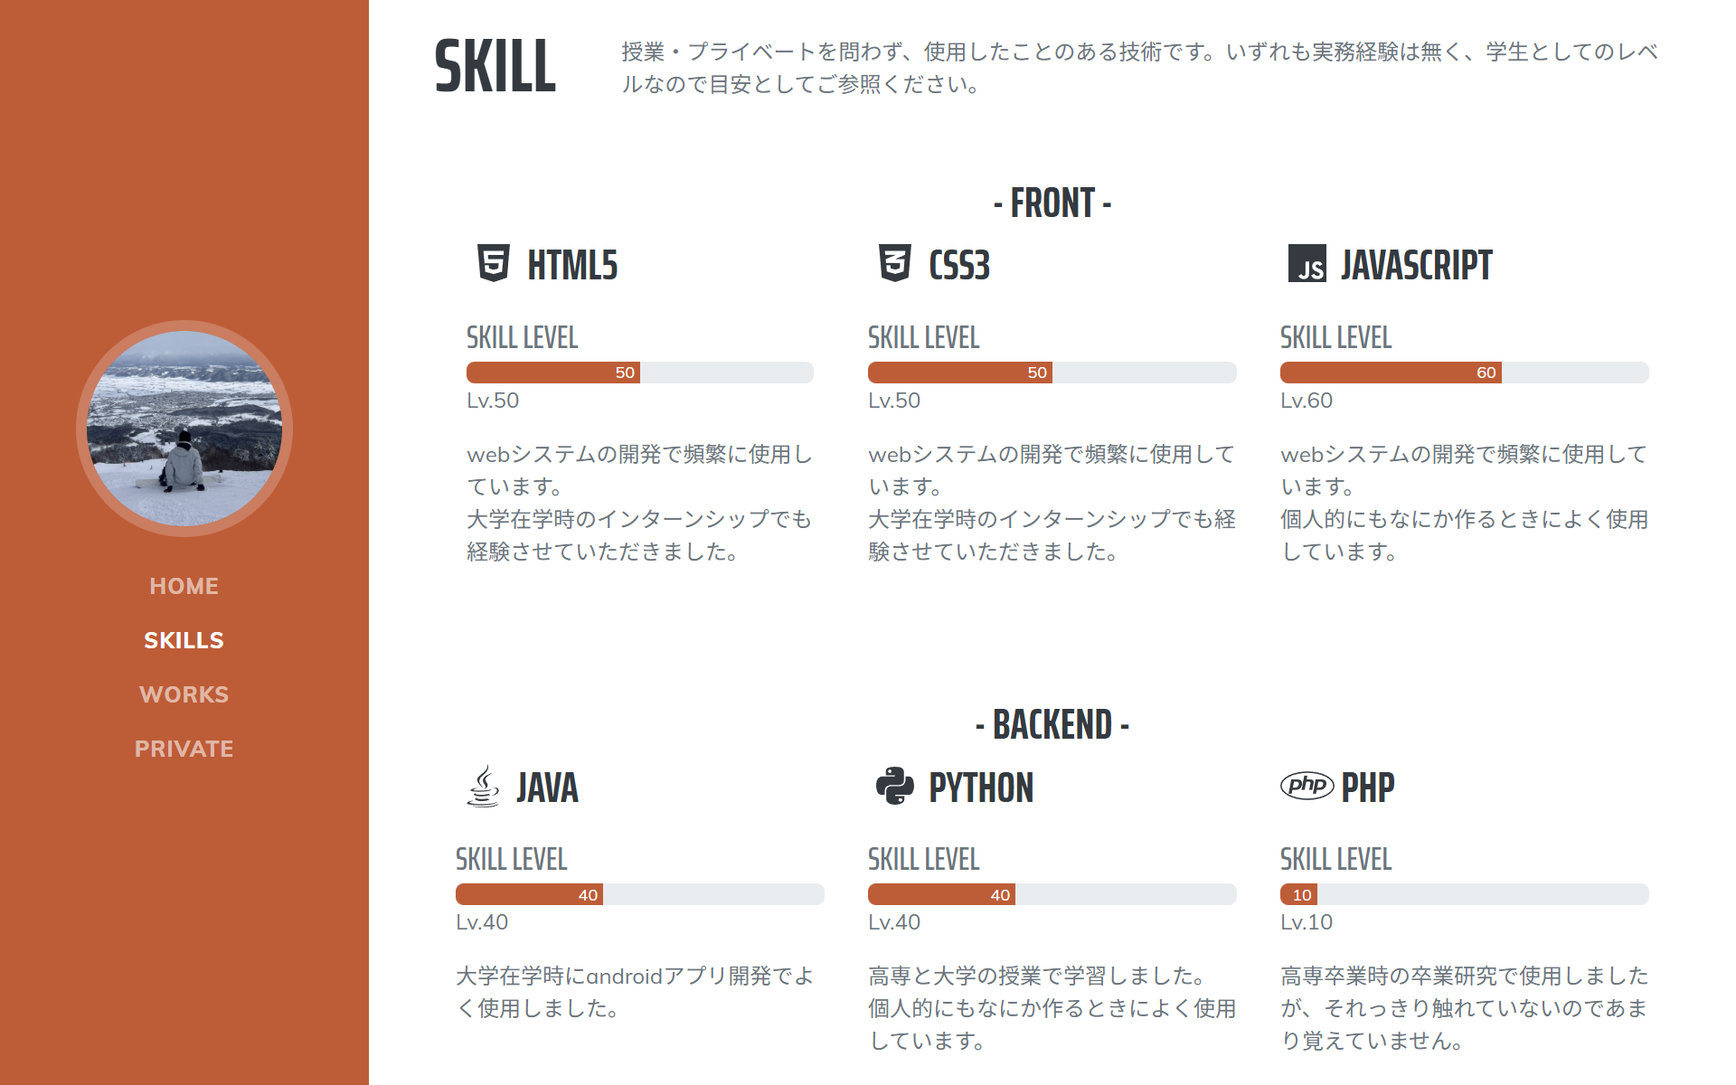
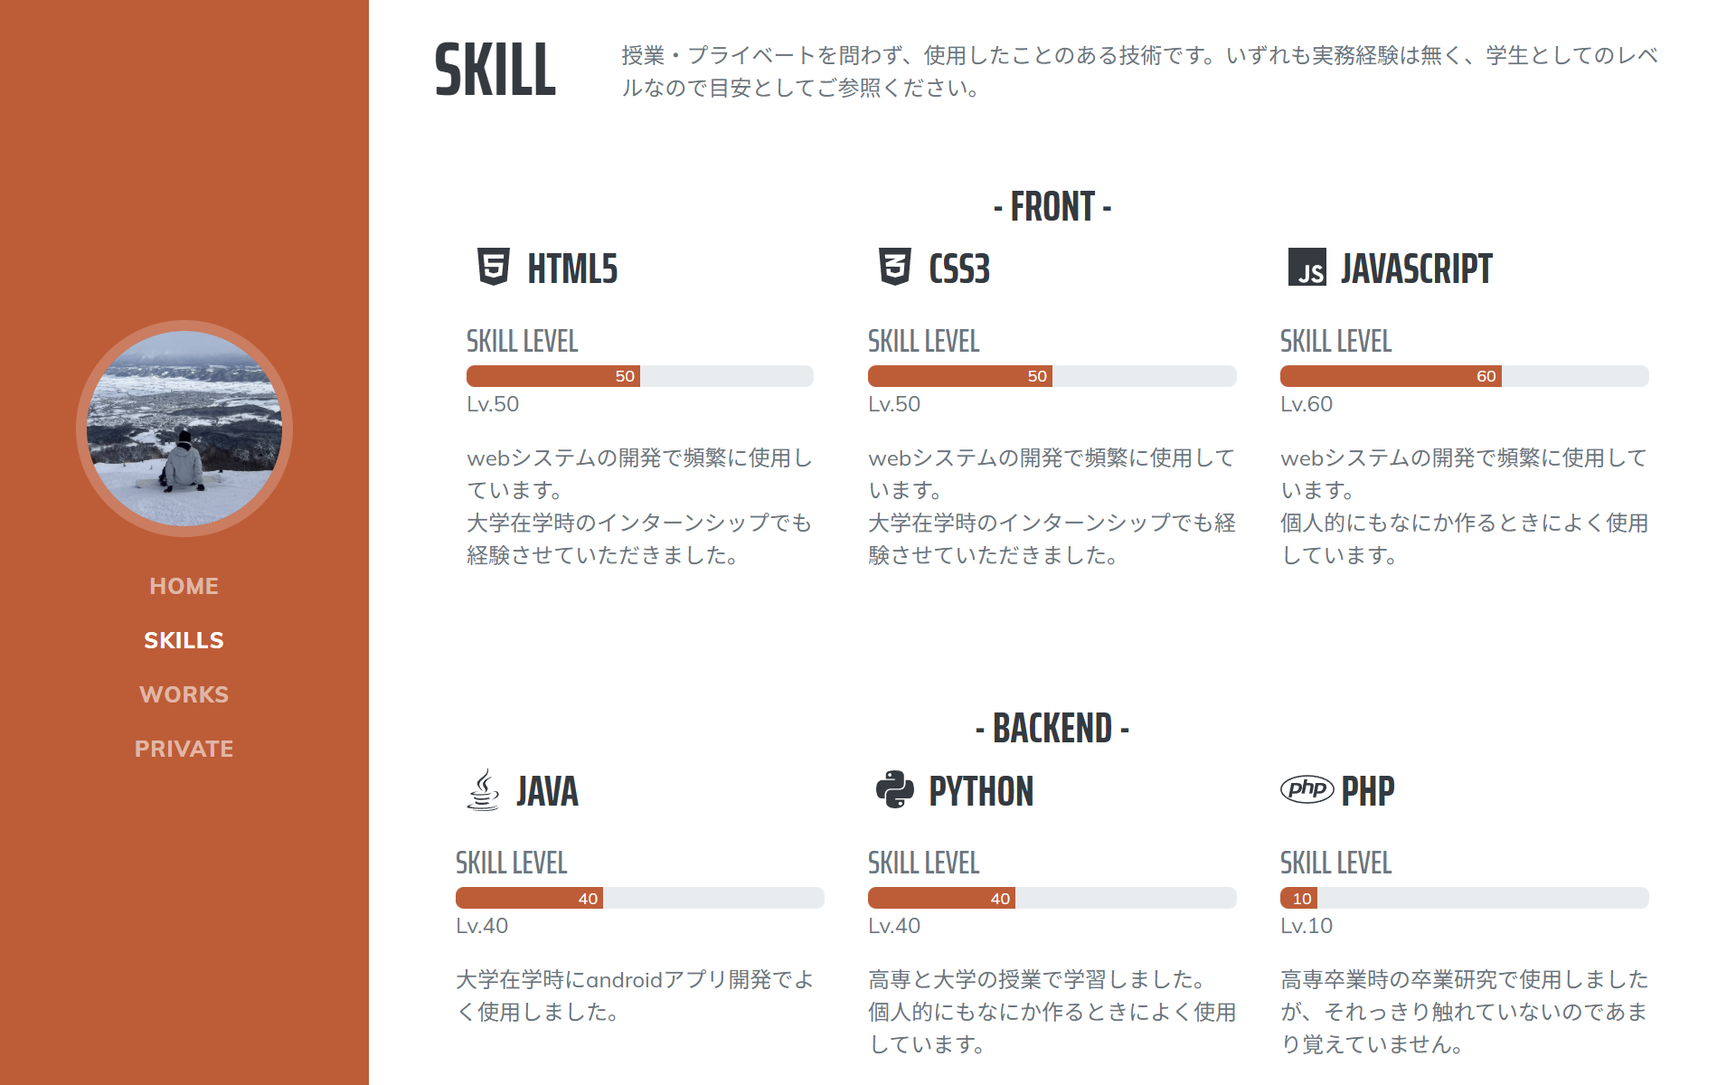
色設定しなおし

diff --git a/index.html b/index.html
@@ -26,7 +26,7 @@
             <div class="modal-dialog modal-dialog-centered modal-dialog-scrollable modal-xl">
             <div class="modal-content">
                 <div class="modal-header">
-                <h5 class="modal-title color-change rain-color" id="explain_modal_title"></h5>
+                <h5 class="modal-title text-primary" id="explain_modal_title"></h5>
                 <button type="button" class="btn-close" data-bs-dismiss="modal" aria-label="Close"></button>
                 </div>
                 <div class="modal-body">
@@ -43,11 +43,11 @@
                           </div>
                         </div>
                         <button class="carousel-control-prev" type="button" data-bs-target="#carouselExampleControlsNoTouching" data-bs-slide="prev">
-                          <span aria-hidden="true"><i class="bi bi-caret-left-fill color-change rain-color"></i></span>
+                          <span aria-hidden="true"><i class="bi bi-caret-left-fill text-primary"></i></span>
                           <span class="visually-hidden">Previous</span>
                         </button>
                         <button class="carousel-control-next" type="button" data-bs-target="#carouselExampleControlsNoTouching" data-bs-slide="next">
-                            <span aria-hidden="true"><i class="bi bi-caret-right-fill color-change rain-color"></i></span>
+                            <span aria-hidden="true"><i class="bi bi-caret-right-fill text-primary"></i></span>
                           <span class="visually-hidden">Next</span>
                         </button>
                       </div>
@@ -57,13 +57,13 @@
                 </div>
                 <div class="modal-footer">
                         <a id="explain_modal_footer" class="px-1" href="#">
-                            <h3 class="mt-2 color-change rain-color"><i class="fa-brands fa-github"></i></h2>
+                            <h3 class="mt-2 text-primary"><i class="fa-brands fa-github"></i></h2>
                         </a>
                         <a id="link_modal_footer" class="px-1" href="#">
-                            <h3 class="mt-2 color-change rain-color"><i class="bi bi-box-arrow-right"></i></h3>
+                            <h3 class="mt-2 text-primary"><i class="bi bi-box-arrow-right"></i></h3>
                         </a>
                         <a id="slide_modal_footer" class="px-1" href="#">
-                            <h3 class="mt-2 color-change rain-color"><i class="bi bi-file-earmark-ppt"></i></h3>
+                            <h3 class="mt-2 text-primary"><i class="bi bi-file-earmark-ppt"></i></h3>
                         </a>
                     <!-- <button type="button" class="btn btn-secondary px-1" data-bs-dismiss="modal">Close</button> -->
                 </div>
@@ -137,7 +137,7 @@
                                     <div class="flex-grow-1 mx-2">
                                         <h3 class="mb-3"><i class="fa-brands fa-html5"></i>  HTML5</h3>
                                         <div class="subheading">Skill Level</div>
-                                        <div class="progress color-change rain-color" role="progressbar" aria-label="Example with label" aria-valuenow="50" aria-valuemin="0" aria-valuemax="100">
+                                        <div class="progress text-primary" role="progressbar" aria-label="Example with label" aria-valuenow="50" aria-valuemin="0" aria-valuemax="100">
                                             <div class="progress-bar scroll-action text-end pe-1" percent="50">50</div>
                                         </div>
                                         <p>Lv.50</p>
@@ -148,7 +148,7 @@
                                     <div class="flex-grow-1">
                                         <h3 class="mb-3"><i class="fa-brands fa-css3-alt"></i>  CSS3</h3>
                                         <div class="subheading">Skill Level</div>
-                                        <div class="progress color-change rain-color" role="progressbar" aria-label="Example with label" aria-valuenow="50" aria-valuemin="0" aria-valuemax="100">
+                                        <div class="progress text-primary" role="progressbar" aria-label="Example with label" aria-valuenow="50" aria-valuemin="0" aria-valuemax="100">
                                             <div class="progress-bar scroll-action text-end pe-1" percent="50">50</div>
                                         </div>
                                         <p>Lv.50</p>
@@ -159,7 +159,7 @@
                                     <div class="flex-grow-1">
                                         <h3 class="mb-3"><i class="fa-brands fa-js"></i>  Javascript</h3>
                                         <div class="subheading">Skill Level</div>
-                                        <div class="progress color-change rain-color" role="progressbar" aria-label="Example with label" aria-valuenow="60" aria-valuemin="0" aria-valuemax="100">
+                                        <div class="progress text-primary" role="progressbar" aria-label="Example with label" aria-valuenow="60" aria-valuemin="0" aria-valuemax="100">
                                             <div class="progress-bar scroll-action text-end pe-1" percent="60">60</div>
                                         </div>
                                         <p>Lv.60</p>
@@ -180,7 +180,7 @@
                                     <div class="flex-grow-1">
                                         <h3 class="mb-3"><i class="fa-brands fa-java"></i>  java</h3>
                                         <div class="subheading">Skill Level</div>
-                                        <div class="progress color-change rain-color" role="progressbar" aria-label="Example with label" aria-valuenow="40" aria-valuemin="0" aria-valuemax="100">
+                                        <div class="progress text-primary" role="progressbar" aria-label="Example with label" aria-valuenow="40" aria-valuemin="0" aria-valuemax="100">
                                             <div class="progress-bar scroll-action text-end pe-1" percent="40">40</div>
                                         </div>
                                         <p>Lv.40</p>
@@ -191,7 +191,7 @@
                                     <div class="flex-grow-1">
                                         <h3 class="mb-3"><i class="fa-brands fa-python"></i> python</h3>
                                         <div class="subheading">Skill Level</div>
-                                        <div class="progress color-change rain-color" role="progressbar" aria-label="Example with label" aria-valuenow="40" aria-valuemin="0" aria-valuemax="100">
+                                        <div class="progress text-primary" role="progressbar" aria-label="Example with label" aria-valuenow="40" aria-valuemin="0" aria-valuemax="100">
                                             <div class="progress-bar scroll-action text-end pe-1" percent="40">40</div>
                                         </div>
                                         <p>Lv.40</p>
@@ -202,7 +202,7 @@
                                     <div class="flex-grow-1">
                                         <h3 class="mb-3"><i class="fa-brands fa-php"></i> PHP</h3>
                                         <div class="subheading">Skill Level</div>
-                                        <div class="progress color-change rain-color" role="progressbar" aria-label="Example with label" aria-valuenow="10" aria-valuemin="0" aria-valuemax="100">
+                                        <div class="progress text-primary" role="progressbar" aria-label="Example with label" aria-valuenow="10" aria-valuemin="0" aria-valuemax="100">
                                             <div class="progress-bar scroll-action text-end pe-1" percent="10">10</div>
                                         </div>
                                         <p>Lv.10</p>
@@ -222,7 +222,7 @@
                                     <div class="flex-grow-1">
                                         <h3 class="mb-3 d-flex align-items-center gap-2"><img style="height: 1em;" src="assets/img/jquery_icon.png" alt="..." /> jQuery</h3>
                                         <div class="subheading">Skill Level</div>
-                                        <div class="progress color-change rain-color" role="progressbar" aria-label="Example with label" aria-valuenow="40" aria-valuemin="0" aria-valuemax="100">
+                                        <div class="progress text-primary" role="progressbar" aria-label="Example with label" aria-valuenow="40" aria-valuemin="0" aria-valuemax="100">
                                             <div class="progress-bar scroll-action text-end pe-1" percent="40">40</div>
                                         </div>
                                         <p>Lv.40</p>
@@ -233,7 +233,7 @@
                                     <div class="flex-grow-1">
                                         <h3 class="mb-3"><i class="fa-brands fa-bootstrap"></i>  bootstrap</h3>
                                         <div class="subheading">Skill Level</div>
-                                        <div class="progress color-change rain-color" role="progressbar" aria-label="Example with label" aria-valuenow="30" aria-valuemin="0" aria-valuemax="100">
+                                        <div class="progress text-primary" role="progressbar" aria-label="Example with label" aria-valuenow="30" aria-valuemin="0" aria-valuemax="100">
                                             <div class="progress-bar scroll-action text-end pe-1" percent="30">30</div>
                                         </div>
                                         <p>Lv.30</p>
@@ -254,7 +254,7 @@
                                     <div class="flex-grow-1">
                                         <h3 class="mb-3"><i class="fa-brands fa-windows"></i>  windows</h3>
                                         <div class="subheading">Skill Level</div>
-                                        <div class="progress color-change rain-color" role="progressbar" aria-label="Example with label" aria-valuenow="60" aria-valuemin="0" aria-valuemax="100">
+                                        <div class="progress text-primary" role="progressbar" aria-label="Example with label" aria-valuenow="60" aria-valuemin="0" aria-valuemax="100">
                                             <div class="progress-bar scroll-action text-end pe-1" percent="60">60</div>
                                         </div>
                                         <p>Lv.60</p>
@@ -265,7 +265,7 @@
                                     <div class="flex-grow-1">
                                         <h3 class="mb-3"><i class="fa-brands fa-linux"></i>  Linux</h3>
                                         <div class="subheading">Skill Level</div>
-                                        <div class="progress color-change rain-color" role="progressbar" aria-label="Example with label" aria-valuenow="15" aria-valuemin="0" aria-valuemax="100">
+                                        <div class="progress text-primary" role="progressbar" aria-label="Example with label" aria-valuenow="15" aria-valuemin="0" aria-valuemax="100">
                                             <div class="progress-bar scroll-action text-end pe-1" percent="15">15</div>
                                         </div>
                                         <p>Lv.15</p>
@@ -286,7 +286,7 @@
                                     <div class="flex-grow-1">
                                         <h3 class="mb-3"><i class="fa-brands fa-github"></i>  Git & GitHub</h3>
                                         <div class="subheading">Skill Level</div>
-                                        <div class="progress color-change rain-color" role="progressbar" aria-label="Example with label" aria-valuenow="50" aria-valuemin="0" aria-valuemax="100">
+                                        <div class="progress text-primary" role="progressbar" aria-label="Example with label" aria-valuenow="50" aria-valuemin="0" aria-valuemax="100">
                                             <div class="progress-bar scroll-action text-end pe-1" percent="50">50</div>
                                         </div>
                                         <p>Lv.50</p>
@@ -297,7 +297,7 @@
                                     <div class="flex-grow-1">
                                         <h3 class="mb-3 d-flex align-items-center gap-2"><img style="height: 1em;" src="assets/img/illustrator_icon.png" alt="..." />  Illustrator</h3>
                                         <div class="subheading">Skill Level</div>
-                                        <div class="progress color-change rain-color" role="progressbar" aria-label="Example with label" aria-valuenow="40" aria-valuemin="0" aria-valuemax="100">
+                                        <div class="progress text-primary" role="progressbar" aria-label="Example with label" aria-valuenow="40" aria-valuemin="0" aria-valuemax="100">
                                             <div class="progress-bar scroll-action text-end pe-1" percent="40">40</div>
                                         </div>
                                         <p>Lv.40</p>
@@ -308,7 +308,7 @@
                                     <div class="flex-grow-1">
                                         <h3 class="mb-3 d-flex align-items-center gap-2"><img style="height: 1em;" src="assets/img/photoshop_icon.png" alt="..." />  Photoshop</h3>
                                         <div class="subheading">Skill Level</div>
-                                        <div class="progress color-change rain-color" role="progressbar" aria-label="Example with label" aria-valuenow="20" aria-valuemin="0" aria-valuemax="100">
+                                        <div class="progress text-primary" role="progressbar" aria-label="Example with label" aria-valuenow="20" aria-valuemin="0" aria-valuemax="100">
                                             <div class="progress-bar scroll-action text-end pe-1" percent="20">20</div>
                                         </div>
                                         <p>Lv.20</p>
@@ -331,67 +331,67 @@
                         <div class="d-flex justify-content-center">
                             <div class="d-inline-flex flex-wrap justify-content-start">
                                 <div class="card d-block mx-3 mb-5" style="width: 18rem;">
-                                    <img src="./assets/img/works/hakomob_logo.png" class="card-img-top works-image color-change-border" alt="..." style="height: 10rem;">
+                                    <img src="./assets/img/works/hakomob_logo.png" class="card-img-top works-image card border-primary" alt="..." style="height: 10rem;">
                                     <div class="card-body" style="height: 12rem;">
                                     <h5 class="card-title color-change">HakoMob(ハコモブ)</h5>
                                     <p class="card-text" style="height: 75px;">ユーザーがモバイルで描いた絵が、AR空間上に浮かび上がるwebARアプリケーションです</p>
                                         <div class="d-flex justify-content-end w-100">
-                                            <a href="javascript:open_explain('hakomob');" class="mx-1"><h3 class="color-change rain-color"><i class="bi bi-arrow-right-square-fill"></i></h3></a>
+                                            <a href="javascript:open_explain('hakomob');" class="mx-1"><h3 class="text-primary"><i class="bi bi-arrow-right-square-fill"></i></h3></a>
                                         </div>
                                     </div>
                                 </div>
 
                                 <div class="card d-block mx-3 mb-5" style="width: 18rem;">
-                                    <img src="./assets/img/works/memocolle_logo.png" class="card-img-top works-image color-change-border" alt="..." style="height: 10rem;">
+                                    <img src="./assets/img/works/memocolle_logo.png" class="card-img-top works-image card border-primary" alt="..." style="height: 10rem;">
                                     <div class="card-body" style="height: 12rem;">
                                     <h5 class="card-title color-change">MemoColle(メモコレ)</h5>
                                     <p class="card-text" style="height: 75px;">スマホで撮った大切な思い出の写真を振り返る、モバイルアプリケーションです。</p>
                                         <div class="d-flex justify-content-end w-100">
-                                            <a href="javascript:open_explain('memocolle');" class="mx-1"><h3 class="color-change rain-color"><i class="bi bi-arrow-right-square-fill"></i></h3></a>
+                                            <a href="javascript:open_explain('memocolle');" class="mx-1"><h3 class="text-primary"><i class="bi bi-arrow-right-square-fill"></i></h3></a>
                                         </div>
                                     </div>
                                 </div>
 
                                 <div class="card d-block mx-3 mb-5" style="width: 18rem;">
-                                    <img src="./assets/img/works/portfolio1.png" class="card-img-top works-image color-change-border" alt="..." style="height: 10rem;">
+                                    <img src="./assets/img/works/portfolio1.png" class="card-img-top works-image card border-primary" alt="..." style="height: 10rem;">
                                     <div class="card-body" style="height: 12rem;">
                                     <h5 class="card-title color-change">Portfolio</h5>
                                     <p class="card-text" style="height: 75px;">このサイトです。主にbootstrapで作成して、GitHubPagesで公開しています。</p>
                                         <div class="d-flex justify-content-end w-100">
-                                            <a href="javascript:open_explain('my_portfolio');" class="mx-1"><h3 class="color-change rain-color"><i class="bi bi-arrow-right-square-fill"></i></h3></a>
+                                            <a href="javascript:open_explain('my_portfolio');" class="mx-1"><h3 class="text-primary"><i class="bi bi-arrow-right-square-fill"></i></h3></a>
                                         </div>
                                     </div>
                                 </div>
 
                                 <div class="card d-block mx-3 mb-5" style="width: 18rem;">
-                                    <img src="./assets/img/works/tatol1.jpg" class="card-img-top works-image color-change-border" alt="..." style="height: 10rem;">
+                                    <img src="./assets/img/works/tatol1.jpg" class="card-img-top works-image card border-primary" alt="..." style="height: 10rem;">
                                     <div class="card-body" style="height: 12rem;">
                                     <h5 class="card-title color-change">ギタイシュガメ</h5>
                                     <p class="card-text" style="height: 75px;">未来大に生息する仮想生物の作品です。函館を守るカメの神様の幼体をイメージしています。</p>
                                         <div class="d-flex justify-content-end w-100">
-                                            <a href="javascript:open_explain('tatol');" class="mx-1"><h3 class="color-change rain-color"><i class="bi bi-arrow-right-square-fill"></i></h3></a>
+                                            <a href="javascript:open_explain('tatol');" class="mx-1"><h3 class="text-primary"><i class="bi bi-arrow-right-square-fill"></i></h3></a>
                                         </div>
                                     </div>
                                 </div>
 
                                 <div class="card d-block mx-3 mb-5" style="width: 18rem;">
-                                    <img src="./assets/img/solme1.png" class="card-img-top works-image color-change-border" alt="..." style="height: 10rem;">
+                                    <img src="./assets/img/solme1.png" class="card-img-top works-image card border-primary" alt="..." style="height: 10rem;">
                                     <div class="card-body" style="height: 12rem;">
                                     <h5 class="card-title color-change">Solme(ソルミー)</h5>
                                     <p class="card-text" style="height: 75px;">日光を浴びることを習慣化させてくれる、モバイルアプリケーションです。</p>
                                         <div class="d-flex justify-content-end w-100">
-                                            <a href="javascript:open_explain('solme');" class="mx-1"><h3 class="color-change rain-color"><i class="bi bi-arrow-right-square-fill"></i></h3></a>
+                                            <a href="javascript:open_explain('solme');" class="mx-1"><h3 class="text-primary"><i class="bi bi-arrow-right-square-fill"></i></h3></a>
                                         </div>
                                     </div>
                                 </div>
 
                                 <div class="card d-block mx-3 mb-5" style="width: 18rem;">
-                                    <img src="./assets/img/typing.png" class="card-img-top works-image color-change-border" alt="..." style="height: 10rem;">
+                                    <img src="./assets/img/typing.png" class="card-img-top works-image card border-primary" alt="..." style="height: 10rem;">
                                     <div class="card-body" style="height: 12rem;">
                                     <h5 class="card-title color-change">typing</h5>
                                     <p class="card-text" style="height: 75px;">シンプルなタイピングゲームです。</p>
                                         <div class="d-flex justify-content-end w-100">
-                                            <a href="javascript:open_explain('typing');" class="mx-1"><h3 class="color-change rain-color"><i class="bi bi-arrow-right-square-fill"></i></h3></a>
+                                            <a href="javascript:open_explain('typing');" class="mx-1"><h3 class="text-primary"><i class="bi bi-arrow-right-square-fill"></i></h3></a>
                                         </div>
                                     </div>
                                 </div>
